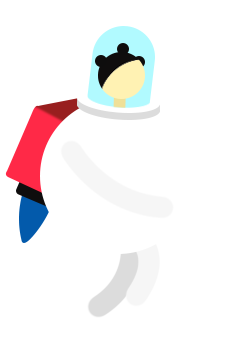
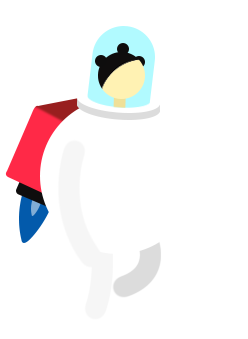
Push 6
Updated bjork jump cycle to be smoother. Testing on open processing and was expereincing serious lag, so I optimized the amount of stars being drawn in the background and called all load functions inside preload to mitigate.

Added enemy un bombs that push bjork off canvas to increase difficulty of the game.

Changed region(s): [[0.3387, 0.708, 0.6492, 0.944], [0.1129, 0.59, 0.1694, 0.649]]

diff --git a/gameplay.js b/gameplay.js
@@ -11,10 +11,8 @@ function bjorkSetup(){
 
 	bjork = createSprite(width/2, height/2, 248, 339);
 	bjork.setCollider("rectangle", 0, 0, 100, 348);
-	var bjorkWalk = bjork.addAnimation("walking", "assets/bjork-walk/bjork-walk-20.png", "assets/bjork-walk/bjork-walk-01.png");
-	var bjorkJump = bjork.addAnimation("jumpup", "assets/bjork-jump/bjork-jump-01.png", "assets/bjork-jump/bjork-jump-05.png");
-	//circle.looping = false;
-
+	bjork.addAnimation("walking", walking);
+	bjork.addAnimation("jumpup", jumpup);
 
 	scoreSugar = createSprite(width - 175, 70, 70, 70);
 	scoreSugar.addImage(bigsugarcubeIMG);
@@ -23,16 +21,12 @@ function bjorkSetup(){
 	vol = createSprite(75, 70, 70, 70);
 	var volOn = vol.addAnimation("on", "assets/vol-on.png");
 	var volOff = vol.addAnimation("off", "assets/vol-off.png");
-	//bjork.setCollider("rectangle", 0, 0, 100, 348);
-	//var bjorkWalk = bjork.addAnimation("walking", "assets/bjork-walk/bjork-walk-20.png", "assets/bjork-walk/bjork-walk-01.png");
-	//var bjorkJump = bjork.addAnimation("jumpup", "assets/bjork-jump/bjork-jump-01.png", "assets/bjork-jump/bjork-jump-05.png");
-	//circle.looping = false;
 }
 
 
 function gamePlay() {
+
 	if (gamePlayBool) {
-		//musicMain.setVolume(.5);
 
     	bjork.changeAnimation("walking");
     	
@@ -61,34 +55,29 @@ function gamePlay() {
 		ship.collide(firstplankBottom);
 		bjork.collide(firstplankBottom);
 		bjork.collide(plankBottoms);
+		bjork.collide(nukes);
 		//Bjork Eats Sugar
 		bjork.overlap(sugarcubes, getSugar);
 		//Bjork Falls
 		bjorkFalls();
 
-
   		drawSprites();
   		scoreBoard();
 		drawSprite(bjork);
-
 
 	}
 }
 
 //Remove sugar when Bjork collides/Increase score by 1
 function getSugar(bjork, sugar) {
-	//if (bjork.overlap(sugarcubes)) {
+
     	sugar.remove();
   		score += 1;
-  	//}
+
 }
 
 //Display Scoreboard
 function scoreBoard(){
-
-	//scoreSugar = createSprite(width - 175, 75, 70, 70);
-	//scoreSugar.addImage(bigsugarcubeIMG);
-
 	drawSprite(scoreSugar);
 
 	fill(255);
@@ -108,9 +97,9 @@ function scoreBoard(){
 
 function bjorkFalls() {
  	if(bjork.position.y > 1100 || bjork.position.x < -100){
-		gamePlayBool = false;
-	    gameOverBool = true;
- 		bjork.position.y = 200;
+		bjork.position.y = -500;
  		bjork.position.x = width/2;
+ 		gamePlayBool = false;
+	    gameOverBool = true;
  	}
 }

diff --git a/sketch.js b/sketch.js
@@ -5,6 +5,9 @@ var gamePlayBool = false;
 var gameOverBool = false;
 var volOnBool = true;
 
+var un;
+//var nukespin;
+ //var unSpin;
 
 //Preload Assets
 function preload(){
@@ -20,7 +23,6 @@ function preload(){
   cover = loadImage("assets/bjork-cover.jpg");
   greenPlanet = loadImage("assets/green-planet.png");
   coverbjorkIMG = loadImage("assets/coverbjork.png");
-  coverUNIMG = loadImage("assets/coverun.png");
   saturnPlanet = loadImage("assets/saturn-planet.png");
   purplePlanet = loadImage("assets/purple-planet.png");
   redPlanet = loadImage("assets/red-planet.png");
@@ -31,6 +33,15 @@ function preload(){
   bigRing = loadImage("assets/big-ring.png");
   gameTitle = loadImage("assets/game-title.png");
   gameOverTitle = loadImage("assets/gameover.png");
+
+
+  //Animated Sprites 
+  un = loadAnimation("assets/un-spin/un-spin-01.png", "assets/un-spin/un-spin-36.png");
+  walking = loadAnimation("assets/bjork-walk/bjork-walk-20.png", "assets/bjork-walk/bjork-walk-01.png");
+  jumpup = loadAnimation("assets/bjork-jump/bjork-jump-01.png", "assets/bjork-jump/bjork-jump-05.png");
+  nukespin = loadAnimation("assets/nuke-spin/nuke-spin-1.png", "assets/nuke-spin/nuke-spin-7.png");
+
+  //var bjorkWalk = bjork.addAnimation("walking", "assets/bjork-walk/bjork-walk-20.png", "assets/bjork-walk/bjork-walk-01.png");
 
   //BG Elements
   bigRedPlanetImg = loadImage("assets/big-red-planet.png");
@@ -46,6 +57,7 @@ function preload(){
   sugarcubeIMG = loadImage("assets/sugarcube.png");
   bigsugarcubeIMG = loadImage("assets/bigsugarcube.png");
   shipIMG = loadImage("assets/ship.png");
+  nukeIMG = loadImage("assets/nuke.png");
 
   //GUI
   volOnIMG = loadImage("assets/vol-on.png");
@@ -62,6 +74,7 @@ function setup() {
   firstPlankSetup();
 	plankSetup();
 	bjorkSetup();
+  //unSetup();
 }
 
 function draw() {
@@ -72,8 +85,6 @@ function draw() {
 	playButton();
 	gamePlay();
 	gameOver();
-
-  //volumeSwitch();
 }
 
 //User Interactions
@@ -111,7 +122,6 @@ function mousePressed(){
         flame.loop();
         flame.setVolume(1);
     }
-
 }
 
 
@@ -120,6 +130,7 @@ function mouseReleased() {
     flame.stop();
   }
 }
+
 
 //User Interactions
 function volumeSwitch(){

diff --git a/planks.js b/planks.js
@@ -2,6 +2,7 @@ var sugarcubes;
 var plankBottoms;
 var plankTops;
 var cloudX;
+var nukes;
 
 var plankYPos = [];
 
@@ -64,6 +65,7 @@ function plankSetup(){
 	plankBottoms = new Group();
 	plankTops = new Group();
 	sugarcubes = new Group();
+	nukes = new Group();
 }
 
 //Spawn/Kill Planks
@@ -94,8 +96,23 @@ function makePlanks(){
 			sugar.addImage(sugarcubeIMG);
 
 		}
-		plankX -= 3;
+		//plankX -= 3;
     }
+
+    if(score > 2 && frameCount%200 == 0) {
+    	var nukeX = width+200;
+    	var nukeY = random(300, 850);
+
+		//Plank Bottoms
+		var nuke = createSprite(nukeX, nukeY, 137, 78);
+		nuke.addAnimation("nukespin", nukespin);
+		nuke.setCollider("rectangle", 0, 0, 137, 78);
+	    nukes.add(nuke);
+
+		
+		//nukeX -= 4;
+	}
+
 
     //Remove Planks
     for (var i = 0; i < plankBottoms.length; i++) {
@@ -105,7 +122,6 @@ function makePlanks(){
 
 			//Remove Plank Bottoms when the exit the canvas
 			plankBottoms[i].remove();
-		  	//print(plankBottoms[i].position.x);
 		}
 	}
 
@@ -124,6 +140,18 @@ function makePlanks(){
 		//Remove Sugar Cubes when the exit the canvas
 		if (sugarcubes[i].position.x < -500) {
 			sugarcubes[i].remove();
+		}
+	}
+
+
+	for (var i = 0; i < nukes.length; i++) {
+		nukes[i].position.x -= 5;
+		drawSprite(nukes[i]);
+drawSprite(nuke);
+		if (nukes[i].position.x < -500) {
+
+			//Remove Plank Bottoms when the exit the canvas
+			nukes[i].remove();
 		}
 	}
 

diff --git a/star.js b/star.js
@@ -6,11 +6,11 @@ var r15 = 0;
 
 function gridOfStars() {
   //For loop to turn my rect object into a grid
-  for (var i = 0; i < 20; i = i + 1) {
-    for (var j = 0; j < 20; j = j + 1){
+  for (var i = 0; i < 5; i = i + 1) {
+    for (var j = 0; j < 5; j = j + 1){
 
-      var starX = random(width*-1, width);
-      var starY = random(height*-1, height);
+      var starX = random(width*-1/2, width/2);
+      var starY = random(height*-1/2, height/2);
       var starW = random(0, 5);
 
       stargrid[index++] = new Star(starX+i, starY+j, starW);
@@ -39,22 +39,15 @@ function Star(tempX, tempY, tempW) {
   //this.cornerVariance = random(5,50);
 
   //the speed in which each corner will soften
-  this.speedCorner = .5;  
+  //this.speedCorner = .5;  
 
   this.show = function() {  
 
-    this.n = noise(this.time)*width/10;
-    this.time = this.time + this.increment;
 
     noStroke();
     fill(255,255,255,27);
-    ellipse(this.xPos, this.yPos, this.ellW+this.n/20)
+    ellipse(this.xPos, this.yPos, this.ellW)
 
-    this.cornerVariance = this.cornerVariance + this.speedCorner;
-
-    if ((this.cornerVariance > 50 || this.cornerVariance < 1 )) {
-      this.speedCorner = this.speedCorner * -1;
-    }
   }
 }
 

diff --git a/gameover.js b/gameover.js
@@ -45,11 +45,8 @@ function gameOver() {
   push();
   translate(width/2, height/2);
   rotate(radians(r2));
-  imageMode(CENTER);
-  image(coverUNIMG, 0, 155);
-  //r2 +=.5;
+  animation(un, 0, 155,);
   pop();
-
 
   //red Planet
   push();
@@ -146,7 +143,6 @@ function gameOver() {
     pop();
 
   pop();
-
 	  //game Title
 	  push();
 	  translate(width/2, height/2);

diff --git a/gamecover.js b/gamecover.js
@@ -2,6 +2,7 @@
 var cover;
 var greenPlanet;
 
+
 var r = 0;
 var r2 = 0;
 var r3 = 0;
@@ -57,9 +58,7 @@ function gameCover(){
   push();
   translate(width/2, height/2);
   rotate(radians(r2));
-  imageMode(CENTER);
-  image(coverUNIMG, 0, 155);
-  //r2 +=.5;
+  animation(un, 0, 155,);
   pop();
 
 

diff --git a/index.html b/index.html
@@ -20,7 +20,6 @@
     <script src="star.js"></script>
     <script src="planks.js"></script>
     <script src="shootingstar.js"></script>
-    <script src="garbageman.js"></script>
 
     <link rel="stylesheet" href="style.css">
 
